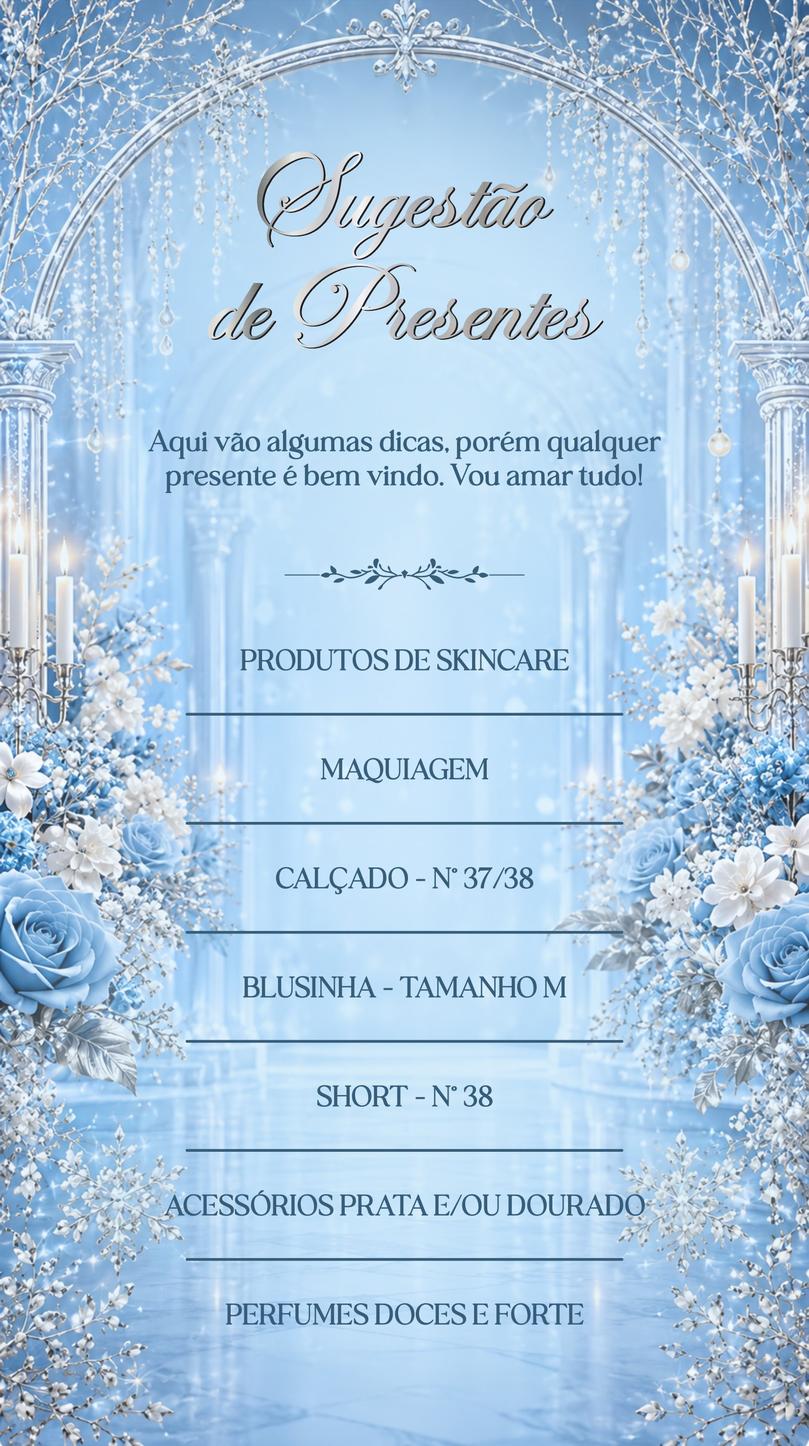
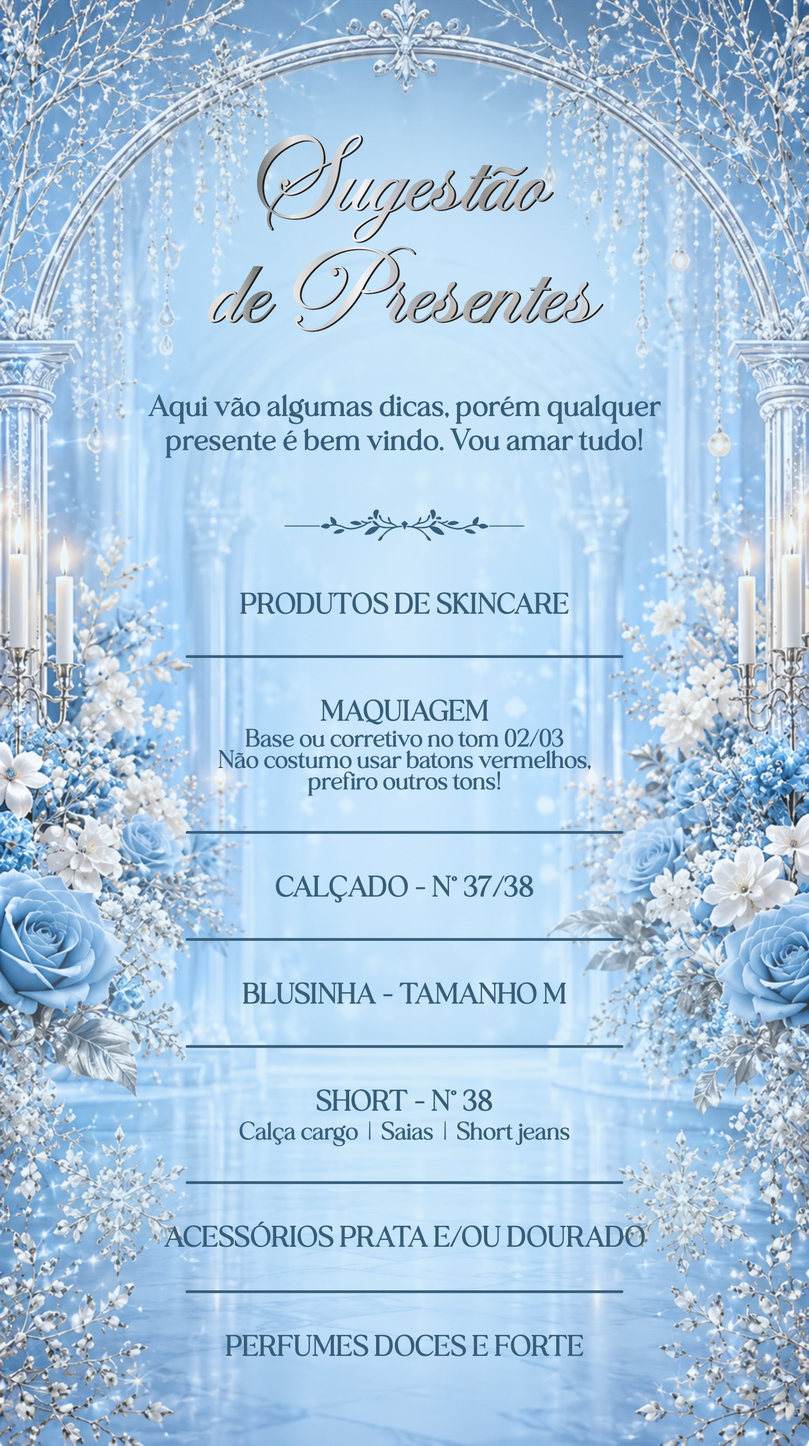
Convite Kimberly Sophia: arte aprovada da sugestão de presentes
Detalhes novos em Maquiagem (tom da base, preferência de batom) e Short
(calça cargo, saias, short jeans). Imagem com ?v=4 para não servir a
versão antiga em cache.

Claude-Session: https://claude.ai/code/session_01LVVNb4Yr8EPQzo4pokkp3q

Changed region(s): [[0.1852, 0.2803, 0.8027, 0.9343], [0.247, 0.0934, 0.7409, 0.2492]]

diff --git a/site/convites/2027-02-06-kimberly-sophia/index.html b/site/convites/2027-02-06-kimberly-sophia/index.html
@@ -124,7 +124,7 @@ if(!location.pathname.endsWith('/')&&!/\.[a-z0-9]+$/i.test(location.pathname))lo
 
 <dialog id="dGift">
   <div class="gift">
-    <img src="assets/presentes.jpg" alt="Sugestão de presentes: produtos de skincare; maquiagem; calçado nº 37/38; blusinha tamanho M; short nº 38; acessórios prata e/ou dourado; perfumes doces e fortes. Qualquer presente é bem-vindo.">
+    <img src="assets/presentes.jpg?v=4" alt="Sugestão de presentes: produtos de skincare; maquiagem (base ou corretivo no tom 02/03; prefere batons em outros tons que não vermelho); calçado nº 37/38; blusinha tamanho M; short nº 38 (calça cargo, saias, short jeans); acessórios prata e/ou dourado; perfumes doces e fortes. Qualquer presente é bem-vindo.">
     <button class="x" id="closeGift" aria-label="Fechar">×</button>
   </div>
 </dialog>
